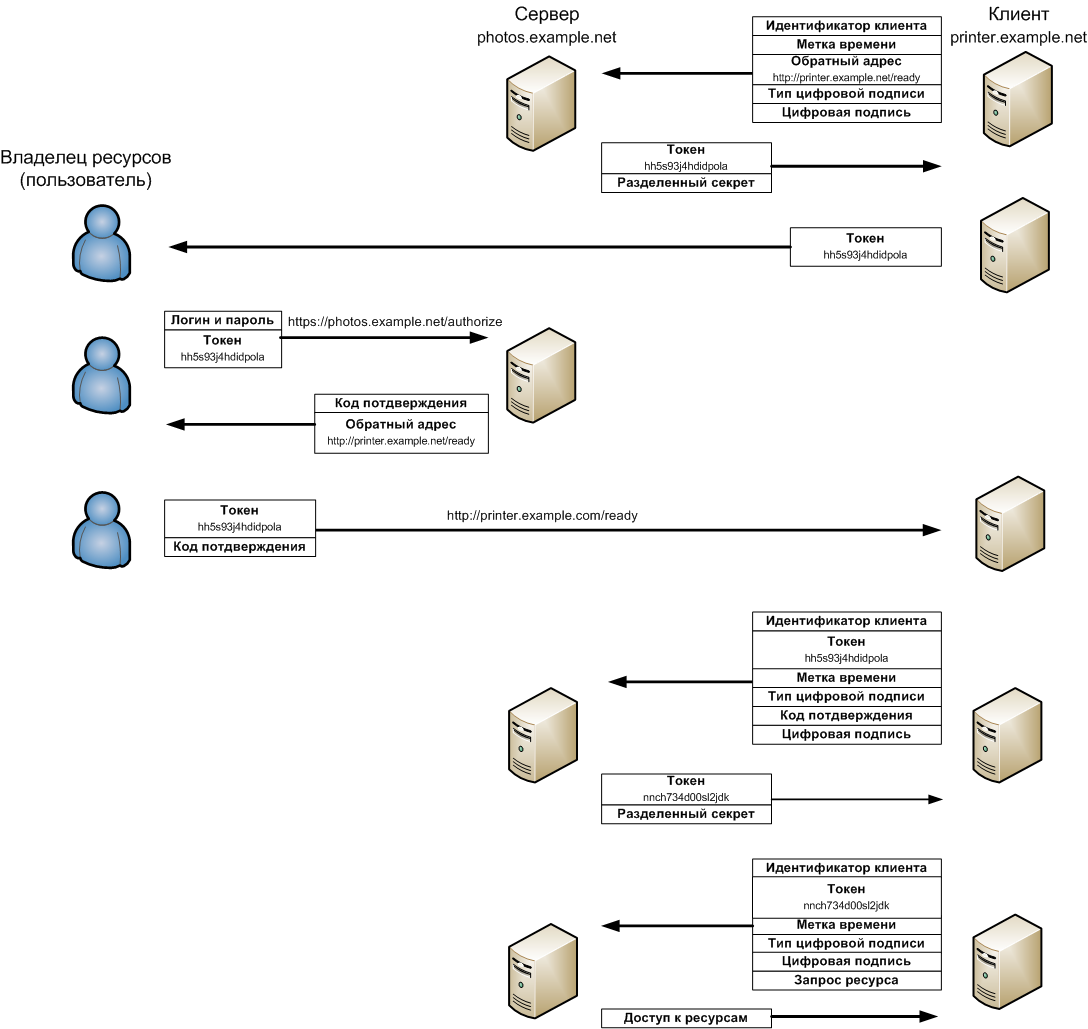
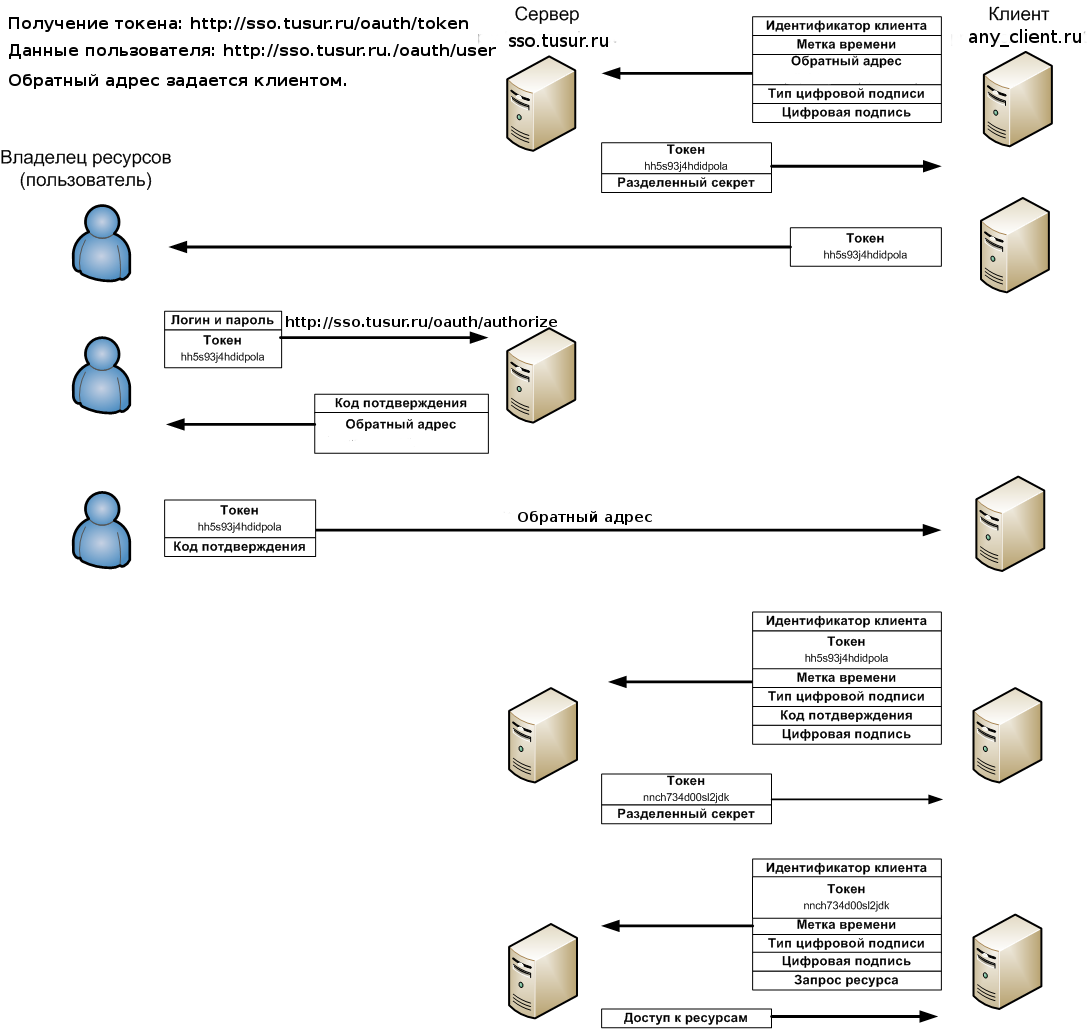
done

diff --git a/README.md b/README.md
@@ -1,25 +1,25 @@
 OAuth
 =====
 
-![authentification](https://github.com/Nimdis/oauth-php/blob/master/imgs/Authentication.jpg?raw=true)
+##Использование единой системы аутентификации пользователей с исползованием открытого протокола OAuth
 
 **Аутенитификация** - процедура проверки подлинности. К примеру введенных данных пользователя (логин, пароль).
 
-![authorization](https://github.com/Nimdis/oauth-php/blob/master/imgs/from-permission-to-authorization_1.jpg?raw=true)
-
 **Авторизация** - предоставление определенному лицу или группе лиц прав на определенное действие.
 
-![oauth](https://github.com/Nimdis/oauth-php/blob/master/imgs/180px-Oauth_logo.svg.png?raw=true)
+В нашем случае аутентификация осуществляется на сервере sso.tusur.ru, а авторизаця на приложении, запрашивающем данную функцию.
 
+
+##Что мы имеем сейчас?
+* N приложений
+* Некоторые взаимодействия между ними
+* На бОльшей части из них необходима регистрация и отдельная аутентификация
+
+При построении распределенных систем такой подход сильно усложняет жизнь.
+
+##OAuth
 **OAuth** - открытый протокол авторизации который позволяет предоставить третьей стороне ограниченный доступ к защищенным ресурсам пользователя без необходимости передавать ей логин и пароль.
-
-####Основы
-Клиент, сервер, владелец ресурса.  
-![client](https://github.com/Nimdis/oauth-php/blob/master/imgs/Server.jpg?raw=true)![server](https://github.com/Nimdis/oauth-php/blob/master/imgs/Server.jpg?raw=true)![owner](https://github.com/Nimdis/oauth-php/blob/master/imgs/happy-client-business.jpg?raw=true)  
-Клиент - потребитель OAuth, т.е. сервер получающий данные о клиенте.  
-Сервер - сервер, передающий данные о клиенте.  
-Владелец ресурса - пользователь.  
-Метка времени и nonce
+![oauth](https://github.com/Nimdis/oauth-php/blob/master/imgs/180px-Oauth_logo.svg.png?raw=true)
 
 ####Преимущества
 Главное преимущество OAuth для работы распределенных систем - удобство пользователя. Имея один сервер аутентификации пользователь проходит процедуру единожды и может использовать каждую из систем не задумываять о повторной процедуре входа.
@@ -27,8 +27,12 @@ OAuth
 1. *Безопасность.* Нет необходимости беспокоиться о хранении пользовательских данных. Они весгда хронятся в одном месте, а не распределены.
 2. *Повышение лояльности пользователей.* У пользователя больше оснований доверять сервису, т.к. получить доступ к его данным сложнее, либо невозможно.
 3. *Удобство для пользователей.* Отсутствие необходимости много раз проходить процедуру аутентификации, а также упрощении данной процедуры для клиентских серверов.
+4. *Удобство для разработчика.* Не нужно делать для каждой отдельной системы свой способ аутентификации.
 
-![oauth](https://github.com/Nimdis/oauth-php/blob/master/imgs/OAuth.png?raw=true)
+####Основы
+Клиент - потребитель OAuth, т.е. сервер получающий данные о клиенте.  
+Сервер - сервер, передающий данные о клиенте.  
+Владелец ресурса - пользователь.  
 
 ####Как работает OAuth
 1. Клиент посредством протокола HTTPS отправляет серверу запрос, который содержит идентификатор клиента, метку времени, адрес обратного вызова по которому нужно вернуть токен, используемый тип цифровой подписи и саму подпись.
@@ -39,16 +43,24 @@ OAuth
 6. Сервер подтверждает запрос и отвечает клиенту новым токеном доступа (Access Token).
 7. Используя новый токен, клиент обращается к серверу за ресурсами.
 8. Сервер подтверждает запрос и предоставляет ресурсы.
-![pseudo oauth](https://github.com/Nimdis/oauth-php/blob/master/imgs/512px-OpenIDvs.Pseudo-AuthenticationusingOAuth.svg.png?raw=true)
 
-####Полезные ссылки:
+##Opauth
+Opauth - мультипровайдерный фреймфворк oauth для PHP.
+Достоинства:
+* поддержка большого количества фреймворков CodeIgniter, Zend, Yii, Laravel
+* поддержка большого количества фреймворков Facebook, Twitter, GitHub
+* возможность добавления своих провайдеров (strategies)
+
+Для упрощения внедрения для Opauth была написана стратегия которую можно найти по ссылке на гитхаб в конце презентации
+
+##Полезные ссылки:
 1. SSO-strategy (https://github.com/Nimdis/sso-strategy)
 2. Opauth for Yii Framework (https://github.com/kahwee/yii-opauth)
 3. Opauth (https://github.com/opauth/opauth)
 4. Презентация (https://docs.google.com/presentation/d/1ipYPWAhJi_0gKS2e1CPQ54IuYec9PtNRdq9_ZEYdV4Y/edit?usp=sharing)
-5. Доклад (https://github.com/Nimdis/oauth-php/blob/master/oauth.md)
+5. Доклад (https://github.com/Nimdis/oauth-php)
 
-####Использованные материалы:
+##Использованные материалы:
 1. http://en.wikipedia.org/wiki/Oauth, http://ru.wikipedia.org/wiki/OAuth
 2. Различные случайные картинки по теме.
 3. https://github.com/opauth/opauth/wiki
